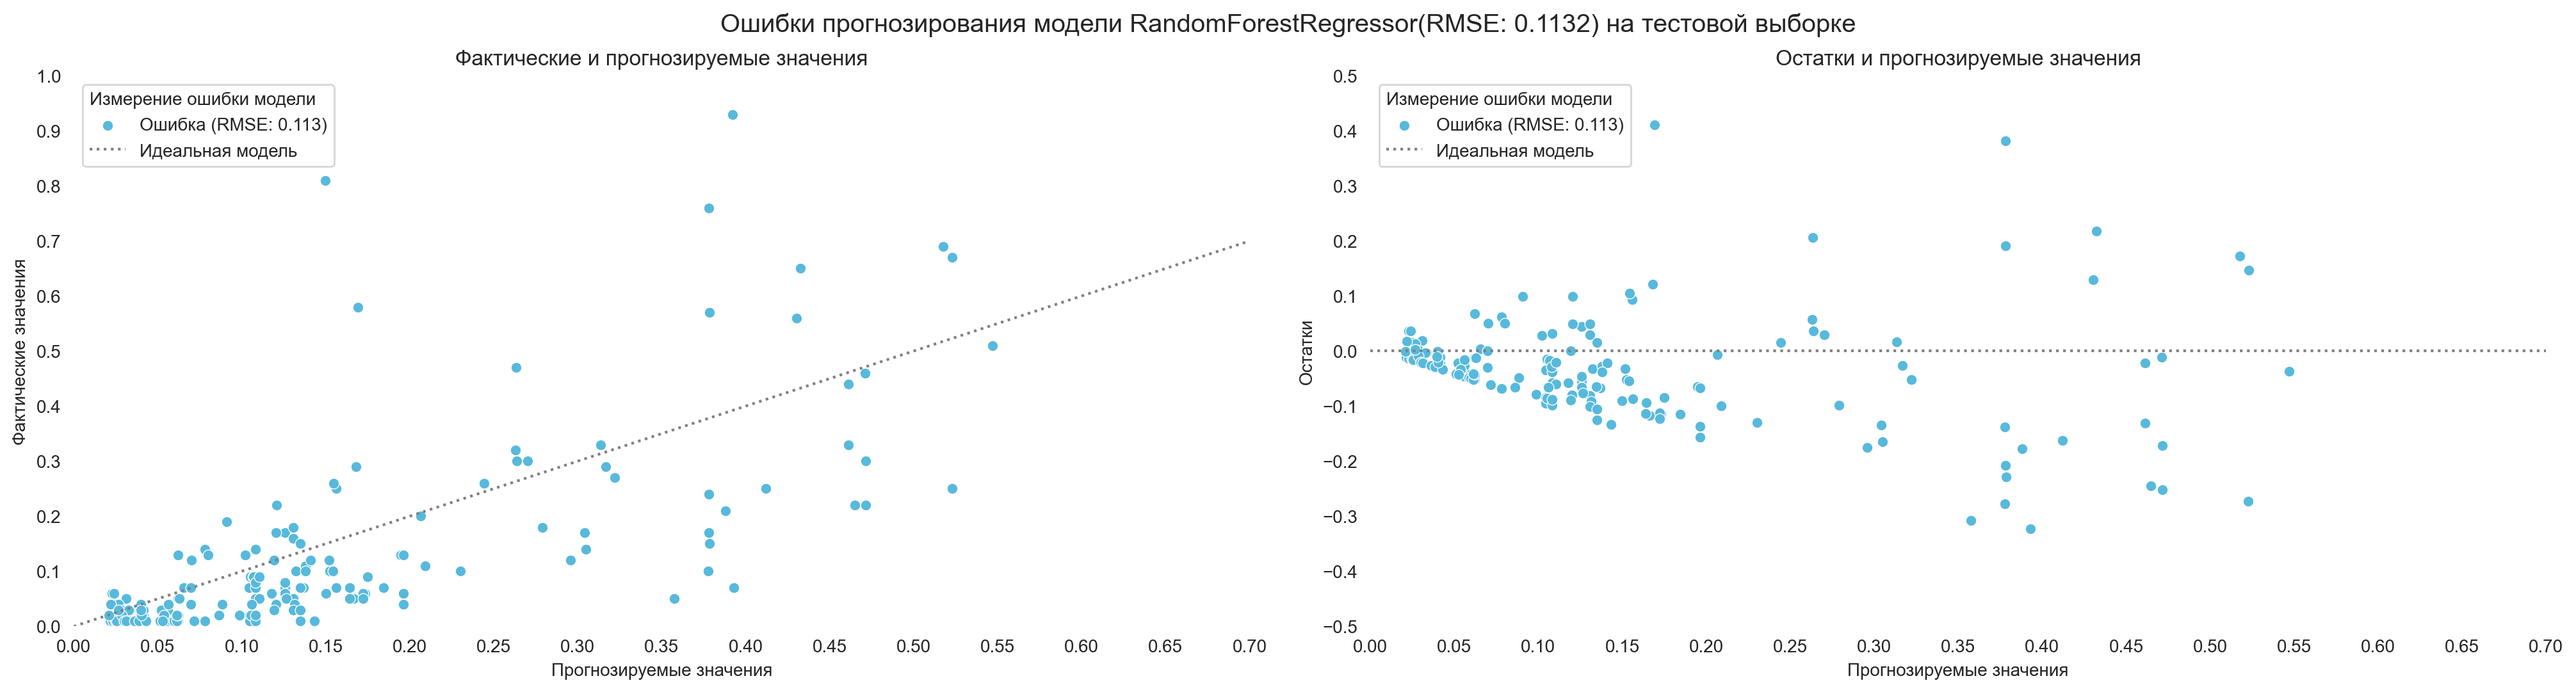
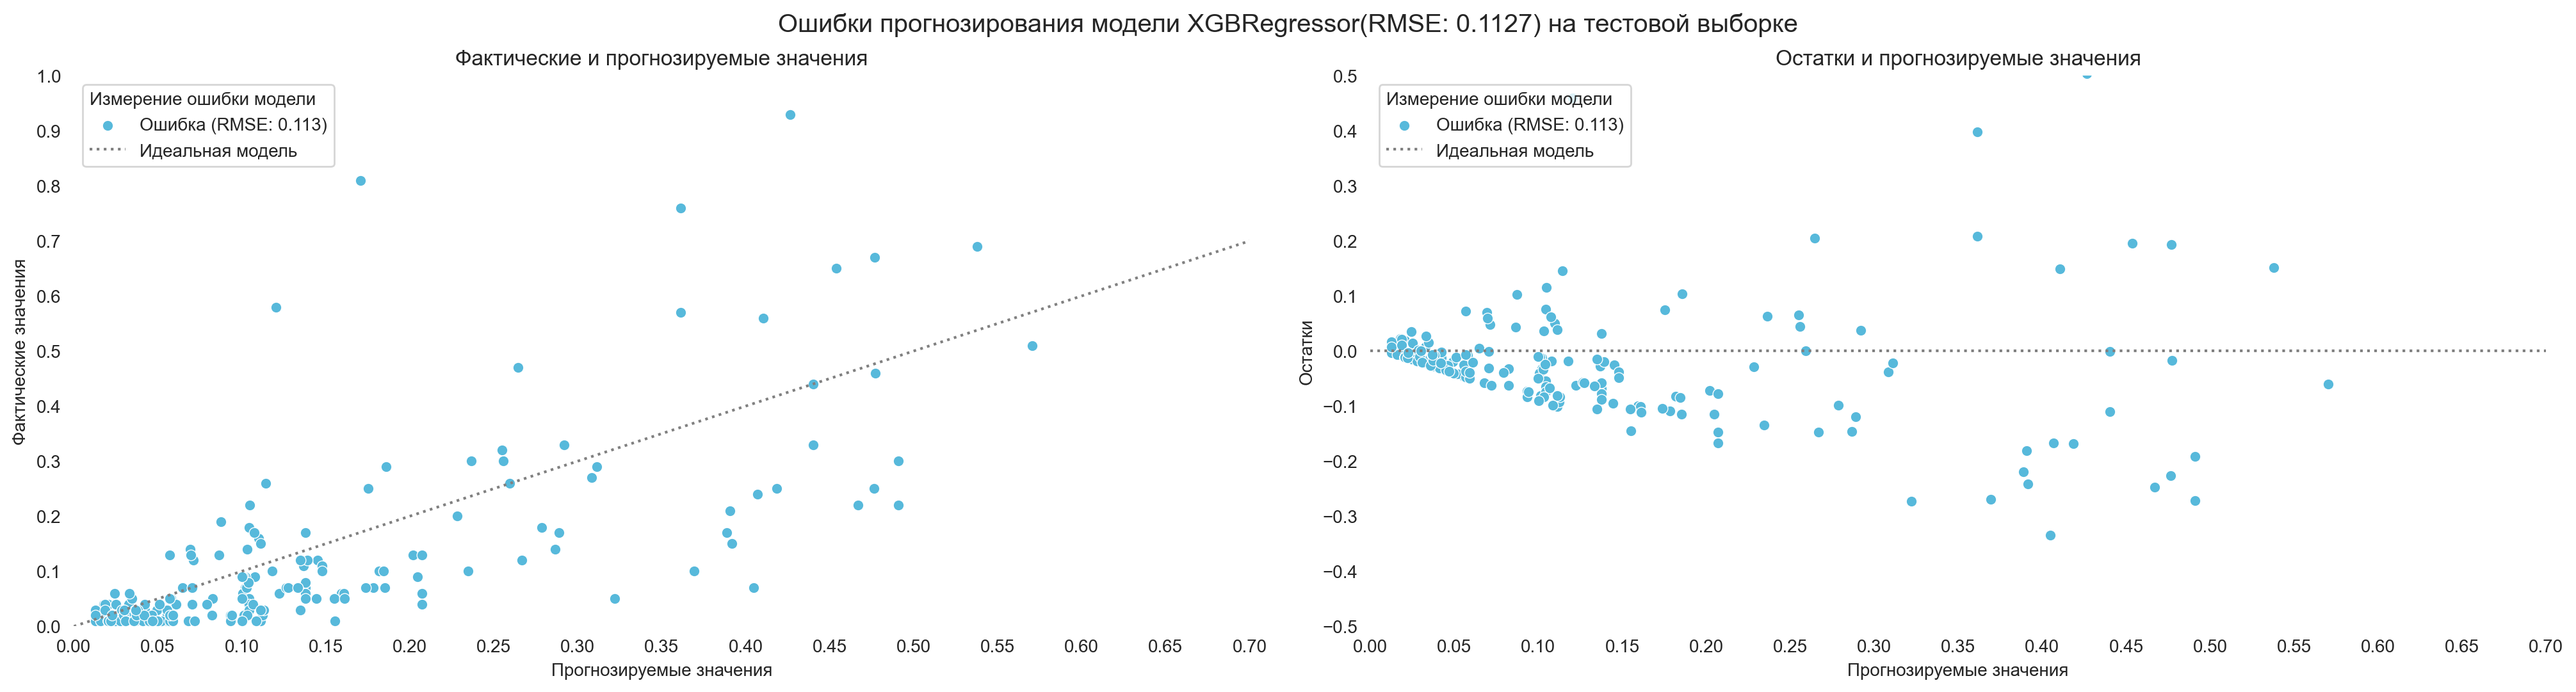
Update the documentation

diff --git a/docs/training.md b/docs/training.md
@@ -55,7 +55,8 @@ def main():
         train(
             models=models,
             data=data,
-            n_trials=250
+            n_trials=300,
+            n_jobs=4
         )
 
 
@@ -90,13 +91,13 @@ if __name__ == '__main__':
 6. cv: метод кросс валидации.
 
 ```python
-from lightgbm import LGBMRegressor
 from sklearn.compose import ColumnTransformer
 from sklearn.metrics import make_scorer
 from sklearn.metrics import root_mean_squared_error
 from sklearn.model_selection import TimeSeriesSplit
 from sklearn.pipeline import Pipeline
 from sklearn.preprocessing import TargetEncoder
+from xgboost import XGBRegressor
 
 from config.ml import CV_N_SPLITS
 from config.ml import CV_TEST_SIZE
@@ -128,9 +129,9 @@ standardizer = ColumnTransformer(
 )
 
 
-estimator = LGBMRegressor(
+estimator = XGBRegressor(
     random_state=RANDOM_STATE,
-    verbosity=-1
+    verbosity=0
 )
 
 pipeline = Pipeline(
@@ -150,7 +151,7 @@ params = {
     'estimator__n_estimators': ['int', {'low': 50,
                                         'high': 500,
                                         'step': 50}],
-    'estimator__num_leaves': ['int', {'low': 2,
+    'estimator__max_leaves': ['int', {'low': 2,
                                       'high': 50,
                                       'step': 2}],
     'estimator__reg_alpha': ['float', {'low': 0.0,
@@ -174,7 +175,7 @@ cv = TimeSeriesSplit(
 
 model = Model(
     pipeline=pipeline,
-    name='LGBMRegressor',
+    name='XGBRegressor',
     params=params,
     metric=root_mean_squared_error,
     scoring=scoring,
@@ -185,20 +186,20 @@ model = Model(
 Количество испытаний можно задать с помощью параметра `n_trials`. Обычно хватает 
 200-300 испытаний для нахождения оптимальных гиперпараметров.
 
-```python
-train(
-    models=models,
-    data=data,
-    n_trials=250
-)
-```
-
 Изменить структуру и формат отображения прогресса обучения моделей, можно в 
 файле [verbose.py](../src/utils/ml/verbose.py), путем модификации метода 
 `__call__` класса `Verbose`:
 
 ```python
-def __call__(self, study: Study, trial: FrozenTrial):
+def __call__(self, study: Study, trial: FrozenTrial) -> None:
+    """
+    Вызывается после каждого испытания;
+
+    :param study: задача оптимизации - совокупность испытаний;
+    :param trial: крайнее испытание;
+    :return: None.
+    """
+
     index = trial.number + 1
     state = trial.state.name
     complete = (trial
@@ -210,7 +211,8 @@ def __call__(self, study: Study, trial: FrozenTrial):
     value = round(trial.values[0], 4)
     best = round(study.best_value, 4)
 
-    print(f'{self.name}: [{complete}] - [{minutes:02}:{seconds:02}] - '
+    print(f'{self.name} [{self.n_job}]: '
+          f'[{complete}] - [{minutes:02}:{seconds:02}] - '
           f'{state}: {index}/{self.trials} - {value:.4f} ({best:.4f}).')
 ```
 
@@ -226,15 +228,16 @@ def __call__(self, study: Study, trial: FrozenTrial):
 В каталоге [training](../reports/training) будет создан каталог 
 с названием файла модели, указанного перед началом тренировки. 
 В папке будут находиться: 
-1. Файл `best_params.json` - гиперпараметры модели, 
+1. Файл `params.json` - гиперпараметры модели, 
 при которых предсказательная способность модели была наилучшей.
-2. Файл `cv_results.csv` - результаты кросс-валидации.
+2. Файл `trials.csv` - результаты кросс-валидации.
 3. Каталог `images` - графические материалы.
 
 В каталоге `images` будут содержаться следующие файлы:
 - `scalability.png` - масштабируемость модели;
 - `error.png` - ошибки прогнозирования регрессионной модели.
 - `dummy.png` - ошибки прогнозирования простой эмпирической модели.
+- `studies.png` - исследование пространства гиперпараметров.
 
 Примеры графических материалов, сформированных по результатам тренировки модели:
 
@@ -243,5 +246,7 @@ def __call__(self, study: Study, trial: FrozenTrial):
 ![metrics](../resources/training/metrics.png)
 
 ![dummy](../resources/training/dummy.png)
+
+![studies](../resources/training/studies.png)
 
 [К описанию проекта](../README.md)

diff --git a/README.md b/README.md
@@ -70,11 +70,12 @@
             <td> 
                 <ul>
                     <li>Jupyter</li>
-                    <li>NLTK</li>
                     <li>NumPy</li>
                     <li>Pandas</li>
                     <li>Seaborn</li>
                     <li>Scikit-learn</li>
+                    <li>LightGBM</li>
+                    <li>XGBoost</li>
                     <li>Optuna</li>
                 </ul> 
             </td>
@@ -90,6 +91,7 @@
                     <li>FastAPI</li>
                     <li>Pandas</li>
                     <li>Uvicorn</li>
+                    <li>Docker</li>
                 </ul> 
             </td>
         </tr>
@@ -121,24 +123,29 @@
 
 ## Результаты
 
-Наилучшей предсказательной способностью обладает модель **RandomForestRegressor**. 
-На тестовых данных удалось достичь метрики **RMSE** менее **0.114** (мл. копий).
+Наилучшей предсказательной способностью обладает модель **XGBRegressor**. 
+На тестовых данных удалось достичь метрики **RMSE** менее **0.1127** (мл. копий).
 Присутствует **гетероскедастичность** остатков.
 
 ![metrics](resources/training/metrics.png)
 
 Кривые обучения показывают, что признак переобучения модели **отсутствует**.
-**Добавление новых данных** вероятнее всего **не улучшит**
-предсказательную способность модели.
+**Добавление новых данных** вероятнее всего **не сильно улучшит**
+предсказательную способность модели
 При добавлении новых данных время обучения и время предсказания 
 возрастают **линейно**.
 
 ![scalability](resources/training/scalability.png)
 
-По сравнению с простой эмпирической моделью, **RandomForestRegressor** 
+По сравнению с простой эмпирической моделью, **XGBRegressor** 
 намного лучше прогнозирует количество проданных копий видеоигр.
 
 ![dummy](resources/training/dummy.png)
+
+Поиск оптимальных гиперпараметров осуществлялся параллельно в **4 исследованиях**
+с использованием алгоритма **TPE (древовидной оценки Парцена)** для **300 испытаний**.
+
+![studies](resources/training/studies.png)
 
 ## Лицензия
 
